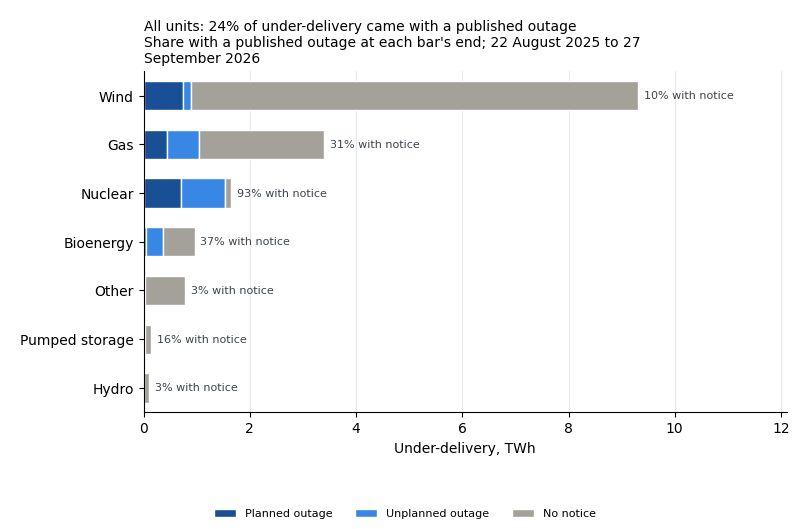
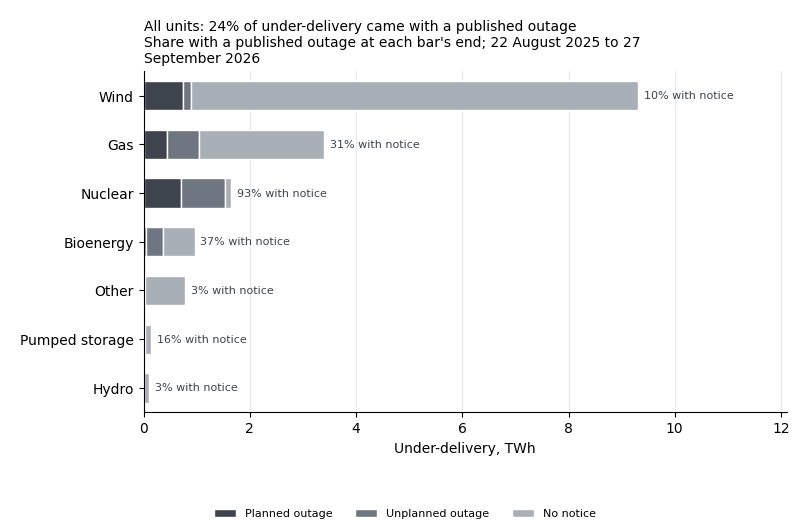
Results page: greys for the split inside a bar
Colour now means fuel group, and greys the split inside a bar. Q12's
instructed part and Q24's flagged part take a strong grey and the rest a
soft one; Q5's planned, unplanned and no-notice parts take strong, mid and
soft. Each mode has its own steps, registered by the page, with the strong
grey the lightest in dark mode; a 2 px gap in the page's colour separates
the parts. Q24's in-bar labels take the page's colour so they read in
either mode, and its reading line no longer names a colour. The hydro blue
no longer appears on these charts. Keys, labels and figures are unchanged.

diff --git a/site/index.html b/site/index.html
@@ -817,6 +817,7 @@
       },
       text: { color: pageColour("--text-secondary"), fontSize: 11.5 },
       bar: { stroke: pageColour("--surface"), strokeWidth: 1 },
+      style: { "inside-label": { color: pageColour("--surface") } },
     };
   }
 
@@ -846,6 +847,26 @@
   }
 
   vega.scheme("gridskew-fuel-groups", fuelGroupScheme());
+
+  // The greys that split a bar into parts, strongest against the page first,
+  // light and dark. In dark mode the strong grey is the lightest.
+  const splitGreys = {
+    strong: ["#3d444d", "#d0d7de"],
+    mid: ["#6e7781", "#8c959f"],
+    soft: ["#a8afb7", "#4b535d"],
+  };
+
+  function splitScheme(steps) {
+    const scheme = [];
+    for (const step of steps) {
+      const [light, dark] = splitGreys[step];
+      scheme.push(prefersDark ? dark : light);
+    }
+    return scheme;
+  }
+
+  vega.scheme("gridskew-split-two", splitScheme(["strong", "soft"]));
+  vega.scheme("gridskew-split-three", splitScheme(["strong", "mid", "soft"]));
 
   const chartOptions = {
     actions: false,

diff --git a/scripts/readme_charts.py b/scripts/readme_charts.py
@@ -323,9 +323,9 @@ Q23_MONTHLY_READING = (
     "early meter data."
 )
 Q24_READING = (
-    "Each bar is one fuel group's instructed energy as 100%: blue is the "
-    "share NESO flagged as managing the network. Under each name is that "
-    "energy in TWh."
+    "Each bar is one fuel group's instructed energy as 100%, split into the "
+    "share NESO flagged as managing the network and the rest. Under each name "
+    "is that energy in TWh."
 )
 Q25_READING = (
     "Each row is a fuel group. The dot is the share of its instructions "
@@ -396,18 +396,33 @@ SIGNED_SCALE_PADDING_PIXELS = 56
 SHARE_TICKS = [0, 25, 50, 75, 100]
 LOG_SHARE_TICKS = [0.01, 0.1, 1, 10, 100]
 
-# One meaning per colour, on every chart. A fuel group's marks take its
-# colour (FUEL_GROUP_COLOURS). Where colour encodes something else on a
-# fuel-group chart, blue is the part NESO instructed or flagged and the outage
-# blues the published outages, grey the rest. Charts not about fuel groups
-# draw their result in a neutral, so no fuel colour means anything else
-# there; mid grey is a comparison mark or a line a verdict needed. Crimson and
-# deep teal are dirtier and cleaner than forecast: no red or teal is a fuel
-# colour, and the pair passes the palette validator on both page surfaces.
-RESULT_COLOUR = "#2a78d6"
-PLANNED_COLOUR = "#184f95"
-UNPLANNED_COLOUR = "#3987e5"
-REST_COLOUR = "#a3a19a"
+# One meaning per colour, on every chart: colour means fuel group (its marks
+# take FUEL_GROUP_COLOURS); greys mean the split inside a bar. Charts not
+# about fuel groups draw their result in a neutral, so no fuel colour means
+# anything else there; mid grey is a comparison mark or a line a verdict
+# needed. Crimson and deep teal are dirtier and cleaner than forecast: no red
+# or teal is a fuel colour, and the pair passes the palette validator on both
+# page surfaces.
+#
+# The split greys, strongest against the page first, light and dark: the
+# instructed, flagged or planned part takes the strong grey, unplanned the
+# mid, the rest the soft. In dark mode the strong grey is the lightest, so it
+# still stands out most. Neighbouring greys differ by about 2:1 in contrast,
+# so a 2 px gap in the page's own colour separates the parts. The page
+# registers each set for its colour mode as a scheme the specs name.
+SPLIT_GREYS = {
+    "strong": ("#3d444d", "#d0d7de"),
+    "mid": ("#6e7781", "#8c959f"),
+    "soft": ("#a8afb7", "#4b535d"),
+}
+SPLIT_TWO_SCHEME = "gridskew-split-two"
+SPLIT_THREE_SCHEME = "gridskew-split-three"
+SPLIT_TWO = ["strong", "soft"]
+SPLIT_THREE = ["strong", "mid", "soft"]
+SPLIT_GAP_PIXELS = 2
+# A label on the strong grey takes the page's own colour, from the page's
+# chart theme, so it reads in either mode; the PNGs use white.
+INSIDE_LABEL_STYLE = "inside-label"
 NEUTRAL_MARK_COLOUR = "#6e7781"
 COMPARISON_COLOUR = "#8c959f"
 DIRTIER_COLOUR = "#c21725"
@@ -807,13 +822,27 @@ def zero_line():
     )
 
 
-def fill_by_name(name_field, names, colours, columns):
+def fill_by_name(name_field, names, scheme, columns):
+    """Each part in its split grey, from the scheme the page registers for
+    its colour mode; Altair knows only Vega's own scheme names, so the name
+    goes to Vega as an expression."""
     return altair.Color(
         f"{name_field}:N",
         sort=list(names),
-        scale=altair.Scale(domain=list(names), range=colours),
+        scale=altair.Scale(
+            domain=list(names), scheme=altair.ExprRef(expr=json.dumps(scheme))
+        ),
         legend=altair.Legend(title=None, orient="bottom", columns=columns),
     )
+
+
+def split_greys_light(steps):
+    """The light steps of the split greys named, for the PNGs."""
+    colours = []
+    for step in steps:
+        light, _dark = SPLIT_GREYS[step]
+        colours.append(light)
+    return colours
 
 
 def value_labels(position, value_field, value_format):
@@ -840,9 +869,10 @@ def label_above(x, y, text_field):
     )
 
 
-def stacked_parts(rows_axis, parts, colours, x_title, tooltip, scale):
+def stacked_parts(rows_axis, parts, scheme, x_title, tooltip, scale):
     """Bars stacked from the part columns, each part at its value divided by
-    the scale, on the given rows."""
+    the scale, on the given rows; a gap in the page's colour (the page's bar
+    stroke) between parts."""
     stack_order = f"indexof({json.dumps(list(parts))}, datum.part)"
     return (
         altair.Chart()
@@ -852,12 +882,12 @@ def stacked_parts(rows_axis, parts, colours, x_title, tooltip, scale):
             stack_order=stack_order,
             scaled=f"datum.amount / {scale}",
         )
-        .mark_bar(stroke=None)
+        .mark_bar(strokeWidth=SPLIT_GAP_PIXELS)
         .encode(
             x=altair.X("scaled:Q", stack="zero", axis=axis_title(x_title)),
             y=rows_axis,
             # One column: beside the chips' room it fits a phone.
-            color=fill_by_name("part_name", parts.values(), colours, 1),
+            color=fill_by_name("part_name", parts.values(), scheme, 1),
             order=altair.Order("stack_order:Q"),
             tooltip=tooltip,
         )
@@ -1135,7 +1165,7 @@ def write_q12_chart(rows, output):
 
     figure, axes = new_figure(len(chart_rows))
     ends = stacked_bars(
-        axes, chart_rows, Q12_PARTS, [RESULT_COLOUR, REST_COLOUR], 1_000_000
+        axes, chart_rows, Q12_PARTS, split_greys_light(SPLIT_TWO), 1_000_000
     )
     for position, row in enumerate(chart_rows):
         share = float(row["instructed_share_pct"])
@@ -1168,7 +1198,7 @@ def write_q12_chart(rows, output):
     bars = stacked_parts(
         rows_axis,
         Q12_PARTS,
-        [RESULT_COLOUR, REST_COLOUR],
+        SPLIT_TWO_SCHEME,
         ["Size of each part of the gap,", "terawatt-hours (TWh)"],
         tooltip,
         1_000_000,
@@ -1256,7 +1286,7 @@ def write_q5_chart(rows, output):
     title = Q5_TITLE.format(share=fixed(share_with_a_notice(rows), 0))
     columns = list(chart_rows[0])
     csv_name = write_chart_csv(output, name, BMRS_ATTRIBUTION, columns, chart_rows)
-    colours = [PLANNED_COLOUR, UNPLANNED_COLOUR, REST_COLOUR]
+    colours = split_greys_light(SPLIT_THREE)
 
     figure, axes = new_figure(len(chart_rows))
     ends = stacked_bars(axes, chart_rows, Q5_SEGMENTS, colours, 1_000_000)
@@ -1290,7 +1320,7 @@ def write_q5_chart(rows, output):
     bars = stacked_parts(
         rows_axis,
         Q5_SEGMENTS,
-        colours,
+        SPLIT_THREE_SCHEME,
         ["Under-delivery, terawatt-hours (TWh)"],
         tooltip,
         1_000_000,
@@ -1962,7 +1992,7 @@ def write_q24_chart(rows, output):
     csv_name = write_chart_csv(output, name, BMRS_ATTRIBUTION, columns, chart_rows)
 
     figure, axes = new_figure(len(chart_rows))
-    stacked_bars(axes, chart_rows, Q24_PARTS, [RESULT_COLOUR, REST_COLOUR], 1)
+    stacked_bars(axes, chart_rows, Q24_PARTS, split_greys_light(SPLIT_TWO), 1)
     labels = []
     for position, row in enumerate(chart_rows):
         flagged = float(row["flagged_pct"])
@@ -1999,7 +2029,7 @@ def write_q24_chart(rows, output):
     bars = stacked_parts(
         rows_axis,
         Q24_PARTS,
-        [RESULT_COLOUR, REST_COLOUR],
+        SPLIT_TWO_SCHEME,
         [Q24_AXIS_TITLE],
         tooltip,
         1,
@@ -2014,7 +2044,7 @@ def write_q24_chart(rows, output):
     shares = (
         altair.Chart()
         .transform_calculate(share_label="format(datum.flagged_pct, '.0f') + '%'")
-        .mark_text(align="right", dx=-LABEL_GAP_PIXELS, color=INSIDE_LABEL_COLOUR)
+        .mark_text(align="right", dx=-LABEL_GAP_PIXELS, style=INSIDE_LABEL_STYLE)
         .encode(x="flagged_pct:Q", y=rows_axis, text="share_label:N")
     )
     chart = (

diff --git a/tests/test_readme_charts.py b/tests/test_readme_charts.py
@@ -18,18 +18,19 @@ from scripts.readme_charts import (
     FUEL_GROUP_COLOURS,
     FUEL_GROUP_SCHEME,
     INSIDE_LABEL_COLOUR,
+    INSIDE_LABEL_STYLE,
     KEY_MARK_COLOUR,
     NEUTRAL_MARK_COLOUR,
     PALE_KEY_COLOUR,
-    PLANNED_COLOUR,
-    REST_COLOUR,
-    RESULT_COLOUR,
-    UNPLANNED_COLOUR,
+    SPLIT_GREYS,
+    SPLIT_THREE_SCHEME,
+    SPLIT_TWO_SCHEME,
     end_name_heights,
     write_charts,
 )
 
-# The colours a spec may write out; fuel-group colours are not among them.
+# The colours a spec may write out; fuel-group colours and the split greys
+# come from the page's schemes and are not among them.
 SHARED_COLOURS = [
     BAND_FILL,
     CLEANER_COLOUR,
@@ -39,10 +40,6 @@ SHARED_COLOURS = [
     KEY_MARK_COLOUR,
     NEUTRAL_MARK_COLOUR,
     PALE_KEY_COLOUR,
-    PLANNED_COLOUR,
-    REST_COLOUR,
-    RESULT_COLOUR,
-    UNPLANNED_COLOUR,
 ]
 
 FIXTURES = Path(__file__).parent / "fixtures" / "results"
@@ -833,6 +830,47 @@ def fuel_colours_not_from_the_scheme(folder):
     return sorted(set(wrong))
 
 
+def inside_label_styles(folder):
+    """Per spec that splits bars into parts, each text layer drawn inside a
+    bar (right-aligned against a part's end) as its style and any colour it
+    sets itself."""
+    found = {}
+    split = split_schemes(folder)
+    for name, spec in written_specs(folder).items():
+        if name not in split:
+            continue
+        layers = []
+        drawn_layers(spec, layers)
+        for layer in layers:
+            mark = layer["mark"]
+            if mark_type(layer) != "text" or not isinstance(mark, dict):
+                continue
+            if mark.get("align") != "right":
+                continue
+            found.setdefault(name, []).append((mark.get("style"), mark.get("color")))
+    return found
+
+
+def split_schemes(folder):
+    """Per spec that splits bars into parts, the scheme its parts' colour
+    names; a part colour given any other way shows as its scale."""
+    found = {}
+    for name, spec in written_specs(folder).items():
+        layers = []
+        drawn_layers(spec, layers)
+        for layer in layers:
+            for definition in colour_channels(layer):
+                if definition.get("field") != "part_name":
+                    continue
+                scale = definition.get("scale", {})
+                scheme = scale.get("scheme", {})
+                if isinstance(scheme, dict) and "expr" in scheme:
+                    found[name] = json.loads(scheme["expr"])
+                else:
+                    found[name] = scale
+    return found
+
+
 def diverging_colours(folder, spec_name):
     """The colours a Q29 chart's key gives dirtier and cleaner."""
     layers = []
@@ -1213,6 +1251,15 @@ def test_fuel_group_charts_colour_each_group_from_the_shared_scheme(written):
     assert fuel_colours_not_from_the_scheme(written) == []
 
 
+def test_bars_split_into_parts_take_the_page_split_greys(written):
+    # Colour means fuel group; greys mean the split inside a bar.
+    assert split_schemes(written) == {
+        "q12_instructed_share_by_fuel_group.vl.json": SPLIT_TWO_SCHEME,
+        "q24_flagged_share_by_fuel_group.vl.json": SPLIT_TWO_SCHEME,
+        "q5_under_delivery_by_outage_notice.vl.json": SPLIT_THREE_SCHEME,
+    }
+
+
 def test_both_q29_charts_share_one_diverging_pair_no_fuel_group_wears(written):
     pair = (DIRTIER_COLOUR, CLEANER_COLOUR)
     assert diverging_colours(written, "q29_error_by_time_of_day.vl.json") == pair
@@ -1309,10 +1356,42 @@ def test_q23_line_end_names_move_apart_only_as_far_as_they_must():
 def test_the_page_registers_the_fuel_group_colours_the_charts_name():
     page = PAGE.read_text(encoding="utf-8")
 
+    fuel_list = page.split("const fuelGroupColours = [", 1)[1].split("];", 1)[0]
+
     assert f'vega.scheme("{FUEL_GROUP_SCHEME}", fuelGroupScheme())' in page
-    assert FUEL_GROUP_COLOUR_PAIR.findall(page) == list(FUEL_GROUP_COLOURS.values())
+    assert FUEL_GROUP_COLOUR_PAIR.findall(fuel_list) == list(
+        FUEL_GROUP_COLOURS.values()
+    )
     # Each mode its own steps.
     assert "scheme.push(prefersDark ? dark : light);" in page
+
+
+def test_labels_inside_a_bar_take_the_page_colour_in_either_mode(written):
+    # The strong grey flips with the mode, so its label takes the page's
+    # own colour, set by the page's chart theme.
+    page = PAGE.read_text(encoding="utf-8")
+
+    assert inside_label_styles(written) == {
+        "q24_flagged_share_by_fuel_group.vl.json": [(INSIDE_LABEL_STYLE, None)]
+    }
+    assert f'"{INSIDE_LABEL_STYLE}": {{ color: pageColour("--surface") }}' in page
+
+
+def test_the_page_registers_the_split_greys_for_each_mode():
+    page = PAGE.read_text(encoding="utf-8")
+    greys = []
+    for step, (light, dark) in SPLIT_GREYS.items():
+        greys.append(f'    {step}: ["{light}", "{dark}"],')
+
+    assert "\n".join(greys) in page
+    assert (
+        f'vega.scheme("{SPLIT_TWO_SCHEME}", splitScheme(["strong", "soft"]));' in page
+    )
+    assert (
+        f'vega.scheme("{SPLIT_THREE_SCHEME}", '
+        'splitScheme(["strong", "mid", "soft"]));' in page
+    )
+    assert page.count("scheme.push(prefersDark ? dark : light);") == 2
 
 
 def test_every_chart_shows_fuel_groups_by_their_display_names_only(written):
